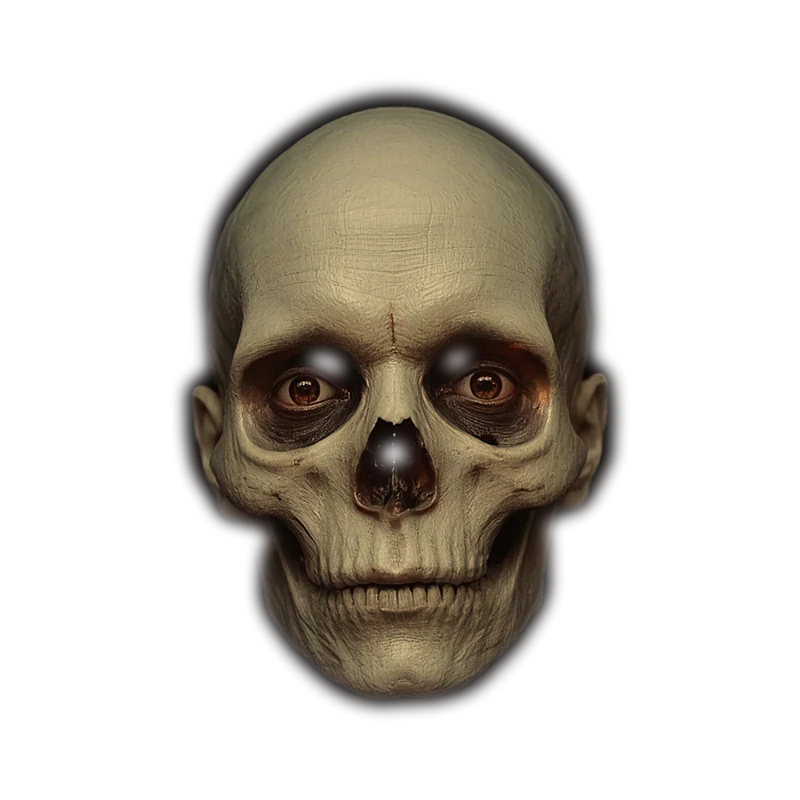
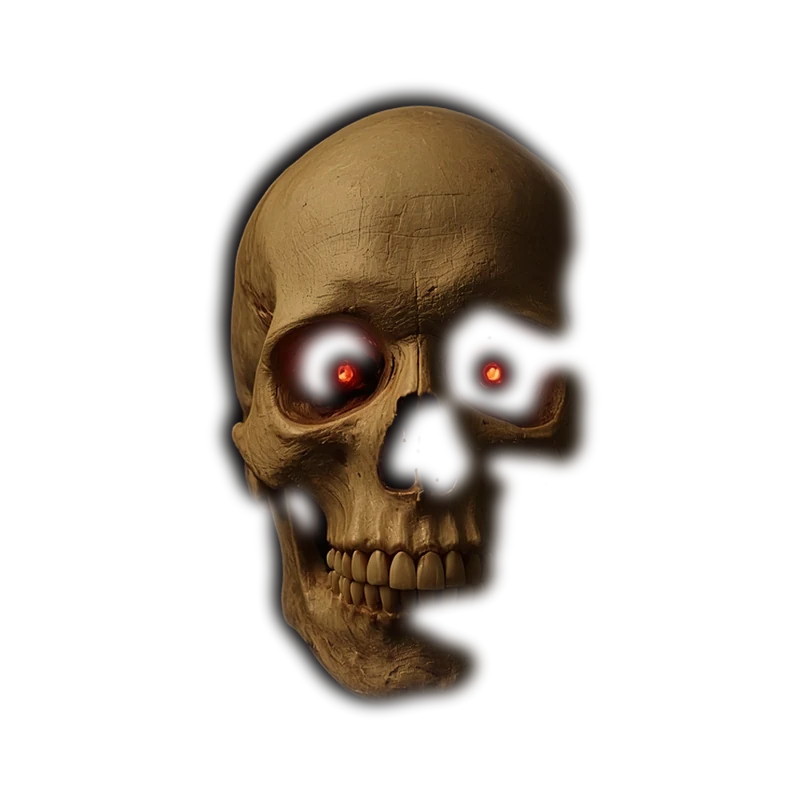
Light the sockets from the render, move them from the page
The skull behind the keyhole had empty sockets. Two dead holes read as a
prop; a fire in them reads as something still in there.

The light itself is baked into the plate rather than drawn over it. A
render throws the glow back onto the brow ridge, the nasal bone and the
upper cheek, and that spill is the whole difference between a fire inside
a skull and a sticker on one - no gradient can fake it, because CSS does
not know where the bone is. What a baked render cannot do is move, and a
fire that does not move is a lamp.

So the plate carries the light and the page carries only the movement:
two soft radial coals over the sockets, on 1.63s and 2.11s. Those periods
share no multiple short enough to notice, so the pair never settles into
a beat - a synchronised flicker is a light fitting with two bulbs in it.

At full strength over an already-lit plate the two lights summed and the
sockets blew out into flat orange discs, which at phone size is a cartoon.
The group runs at .34, where it reads as the fire guttering instead.

The socket positions are measured off the plate, not typed: sockets.py
finds the lit centroids by orange-ness and rewrites the two ellipses, so
swapping the plate can never leave the fire sitting on the cheekbones.
Here that yields a narrower coal on the far side, which is the skull being
very slightly turned.

Both coals are declarative CSS, so the existing prefers-reduced-motion
block stops them with everything else - lit, but still.
[…]

diff --git a/index.html b/index.html
@@ -579,6 +579,43 @@ a,button,.field,[data-open]{-webkit-tap-highlight-color:transparent}
   100%{transform:translateY(0) scale(1.07)}
 }
 .key-eye .face-aim{transform-box:fill-box;transform-origin:center}
+/* The fire is in the plate, not here.
+
+   A render throws the light back onto the brow ridge, the nasal bone and the
+   cheek, and that spill is the whole difference between fire in a skull and
+   a sticker on one - no gradient can do it, because CSS does not know where
+   the bone is. What the render cannot do is move, and a fire that does not
+   move is a lamp.
+
+   So this is only the movement. At full strength over a plate that is
+   already lit it doubled the light and the sockets blew out into two orange
+   discs; at .34 it reads as the fire guttering. The two coals run on 1.63s
+   and 2.11s, which share no multiple short enough to notice, so the pair
+   never settles into a beat - a synchronised flicker is a light fitting with
+   two bulbs in it. Both are killed with everything else by the
+   reduced-motion block above, where they come to rest lit but still. */
+.key-eye .ember{opacity:.34}
+.key-eye .ember ellipse{transform-box:fill-box;transform-origin:center}
+.key-eye .ember-l{animation:ember1 1.63s ease-in-out infinite}
+.key-eye .ember-r{animation:ember2 2.11s ease-in-out infinite}
+@keyframes ember1{
+  0%{opacity:.66;transform:scale(.94)}
+  13%{opacity:.98;transform:scale(1.04)}
+  26%{opacity:.72;transform:scale(.97)}
+  44%{opacity:1;transform:scale(1.07)}
+  61%{opacity:.68;transform:scale(.95)}
+  78%{opacity:.92;transform:scale(1.02)}
+  100%{opacity:.66;transform:scale(.94)}
+}
+@keyframes ember2{
+  0%{opacity:.9;transform:scale(1.03)}
+  17%{opacity:.64;transform:scale(.94)}
+  35%{opacity:.97;transform:scale(1.05)}
+  52%{opacity:.7;transform:scale(.96)}
+  70%{opacity:1;transform:scale(1.06)}
+  86%{opacity:.67;transform:scale(.95)}
+  100%{opacity:.9;transform:scale(1.03)}
+}
 @keyframes eyeshow{
   0%{opacity:0}
   14%{opacity:.96}
@@ -667,6 +704,18 @@ a,button,.field,[data-open]{-webkit-tap-highlight-color:transparent}
            aria-hidden="true" focusable="false">
         <defs>
           <clipPath id="eyeclip"><circle cx="34.95" cy="27" r="23.2"/></clipPath>
+          <!-- A coal, not a bulb: white only at the very centre, orange for
+               most of it, and the last third is the red that is already in
+               the door so the spill belongs to the same room. -->
+          <radialGradient id="ember" cx="50%" cy="50%" r="50%">
+            <stop offset="0" stop-color="#ffe2b4" stop-opacity=".92"/>
+            <stop offset=".26" stop-color="#ff8a3c" stop-opacity=".82"/>
+            <stop offset=".6" stop-color="#e33027" stop-opacity=".4"/>
+            <stop offset="1" stop-color="#e33027" stop-opacity="0"/>
+          </radialGradient>
+          <filter id="embersoft" x="-70%" y="-70%" width="240%" height="240%">
+            <feGaussianBlur stdDeviation=".5"/>
+          </filter>
         </defs>
         <g clip-path="url(#eyeclip)">
           <!-- Everything scales together off this one group, from the size of
@@ -691,6 +740,15 @@ a,button,.field,[data-open]{-webkit-tap-highlight-color:transparent}
                    to prevent. -->
               <image href="v/img-cali/face.webp" x="6.80" y="-1.15"
                      width="56.30" height="56.30" preserveAspectRatio="none"/>
+              <!-- Centres measured off the plate's own alpha and luminance,
+                   in viewBox units. Wider than they are tall, because the
+                   socket is. -->
+              <g class="ember">
+                <ellipse class="ember-l" cx="28.47" cy="21.40" rx="8.55" ry="8.83"
+                         fill="url(#ember)" filter="url(#embersoft)"/>
+                <ellipse class="ember-r" cx="37.11" cy="20.60" rx="4.24" ry="8.20"
+                         fill="url(#ember)" filter="url(#embersoft)"/>
+              </g>
             </g>
           </g>
         </g>
